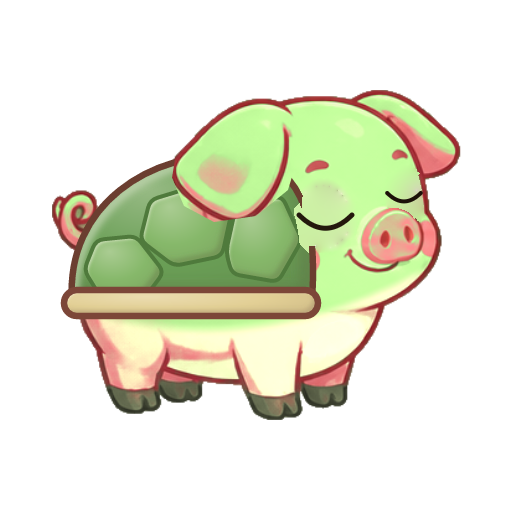
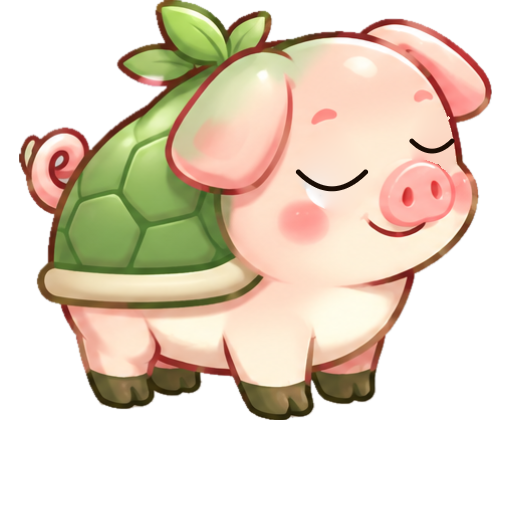
feat(art): new base art for Phoenix, Turtle, Mythical, Boar and Hedgehog pigs from the owner's redesigns, with sleep and wake frames

diff --git a/scripts/assets/eyes.ts b/scripts/assets/eyes.ts
@@ -27,6 +27,8 @@ export const EYE_OVERRIDES: Record<string, EyeOverride> = {
   pig_crybaby: { closedInIdle: true },
   // The curl of the tail and the tip of the ear read as eyes.
   pig_crystal: { drop: [[80, 130, 180, 220], [410, 80, 490, 180]] },
+  // The near eye of the new Phoenix art is lighter than the detector expects (owner's redesign, decision 044).
+  pig_phoenix: { extra: [oval(367, 220, 412, 268)] },
   pig_party: { closedInIdle: true },
   pig_teacher: { eyes: [oval(296, 220, 316, 246), oval(370, 212, 388, 236)] },
   pig_grandpa: { eyes: [oval(303, 221, 317, 237), oval(384, 216, 396, 232)] },

diff --git a/docs/ASSET_TODO.md b/docs/ASSET_TODO.md
@@ -16,9 +16,9 @@
 | `fx_shield_dome` khung 4 | Khung 4 ảnh Gemini (vòm kính trắng rất nhạt) bị mất khi xóa nền → **dựng bằng code** từ khung 3 (to 6 %, mờ 45 %). Tạo lại sheet **A11** nếu muốn khung 4 thật (vòm đậm viền hơn). |
 | `fxp_*` sheet B7–B12 | Nguồn ~300 px phóng lên 512 px, hơi mềm khi phóng to giữa màn. Có thể tạo lại ở độ phân giải cao hơn. |
 | ~~Key pose `cb_<art>_<pose>` 21 combat animal + 22 quái (258 ảnh)~~ | Xong 2026-10-30 (batch `adventure-13-combat-poses`), cắt bằng `cut_blobs.py`; quái có pose → xóa `facing`. `pig_crystal`: ảnh idle thành ảnh gốc (+ ngủ / thức). |
-| **A08 Heo Thor — cần tạo lại** | Sheet vẽ con heo hồng cầm búa, **mất mũ cánh + áo choàng** (không giống `pig_thor`), nền trắng từng ô, có vạch đất. Dùng `A08_new_asset.png` làm ảnh mẫu (đính kèm 2) khi tạo lại. Tạm thời Thor dùng ảnh gốc + chuyển động bằng code. |
+| **A08 Heo Thor — cần tạo lại** | Sheet lần 1 mất mũ cánh + áo choàng (đổi tên `A08_old_khong_dat.png`). Prompt đã làm lại 2026-10-30: ảnh mẫu (đính kèm 2) là Thor mới cắt từ `A08_new_asset.png`, mô tả mới trong `_design/build.mjs`. Render rồi lưu `A08.png`. Ảnh gốc `pig_thor` ở Farm vẫn là bản cũ (chưa duyệt đổi). |
 | Nên tạo lại (không bắt buộc) | **A13** Phượng Hoàng: pose hurt / ko vẽ nhỏ hơn idle. **E04** Cáo Lửa: sheet 3 hàng, pose victory to hơn các pose khác. **E03** Chim Sẻ Sấm: sheet 3×3 (9 con), đã chọn 6 ô. **A16** Heo Ngân Hà: chỉ có bản .jpg 1024 px (mỗi ô ~340 px, hơi mềm). **E05** Ếch Sương: còn vạch đất mảnh dưới pose attack / ko. **E22** đặt tên file khác (`Chibi Golem Guardian Pose Sheet.png`), đã dùng làm E22. |
-| Ảnh gốc mới của 5 heo (A13, A14, A17, A18, A19 `*_new*asset.png`) | Pose trong trận đã theo thiết kế mới, nhưng **ảnh gốc ở Farm / Trại vẫn là bản cũ** (`pig_phoenix`, `pig_turtle`, `pig_thienlong`, `pig_boar`, `pig_hedgehog`). Đổi ảnh gốc cần cắt ảnh mới + `art:sleep` (ngủ / thức): chờ chủ dự án quyết. |
+| ~~Ảnh gốc mới của 5 heo~~ | Xong 2026-10-30 (chủ dự án duyệt): `pig_phoenix`, `pig_turtle`, `pig_thienlong`, `pig_boar`, `pig_hedgehog` lấy hình chính trong `*_new*asset.png`, kèm ngủ / thức (`art:sleep`; Phượng Hoàng thêm ô mắt ở `scripts/assets/eyes.ts`). Rùa và Heo Rừng nguồn ~470–515 px nên hơi mềm. |
 | **12 quái mới N01–N12 — chưa có** | Chưa render (để làm cùng đợt mở rộng map). Khi có: ảnh idle thành ảnh gốc `enemy_*`, cần decision gameplay (chỉ số, kỹ năng, vùng, rơi đồ) trước khi vào `enemies.json` / `maps.json`. |
 | ~~Âm thanh trận (`AUDIO_SFX.md`, 37 id)~~ | Xong 2026-10-30: bộ `audio_v2` (CC0, tự tạo bằng code) vào `public/assets/audio/`, 37 audio key mới. Âm lượng chưa chuẩn hoá (không có ffmpeg): chỉnh `volume` trong manifest nếu to / nhỏ lệch. |
 
